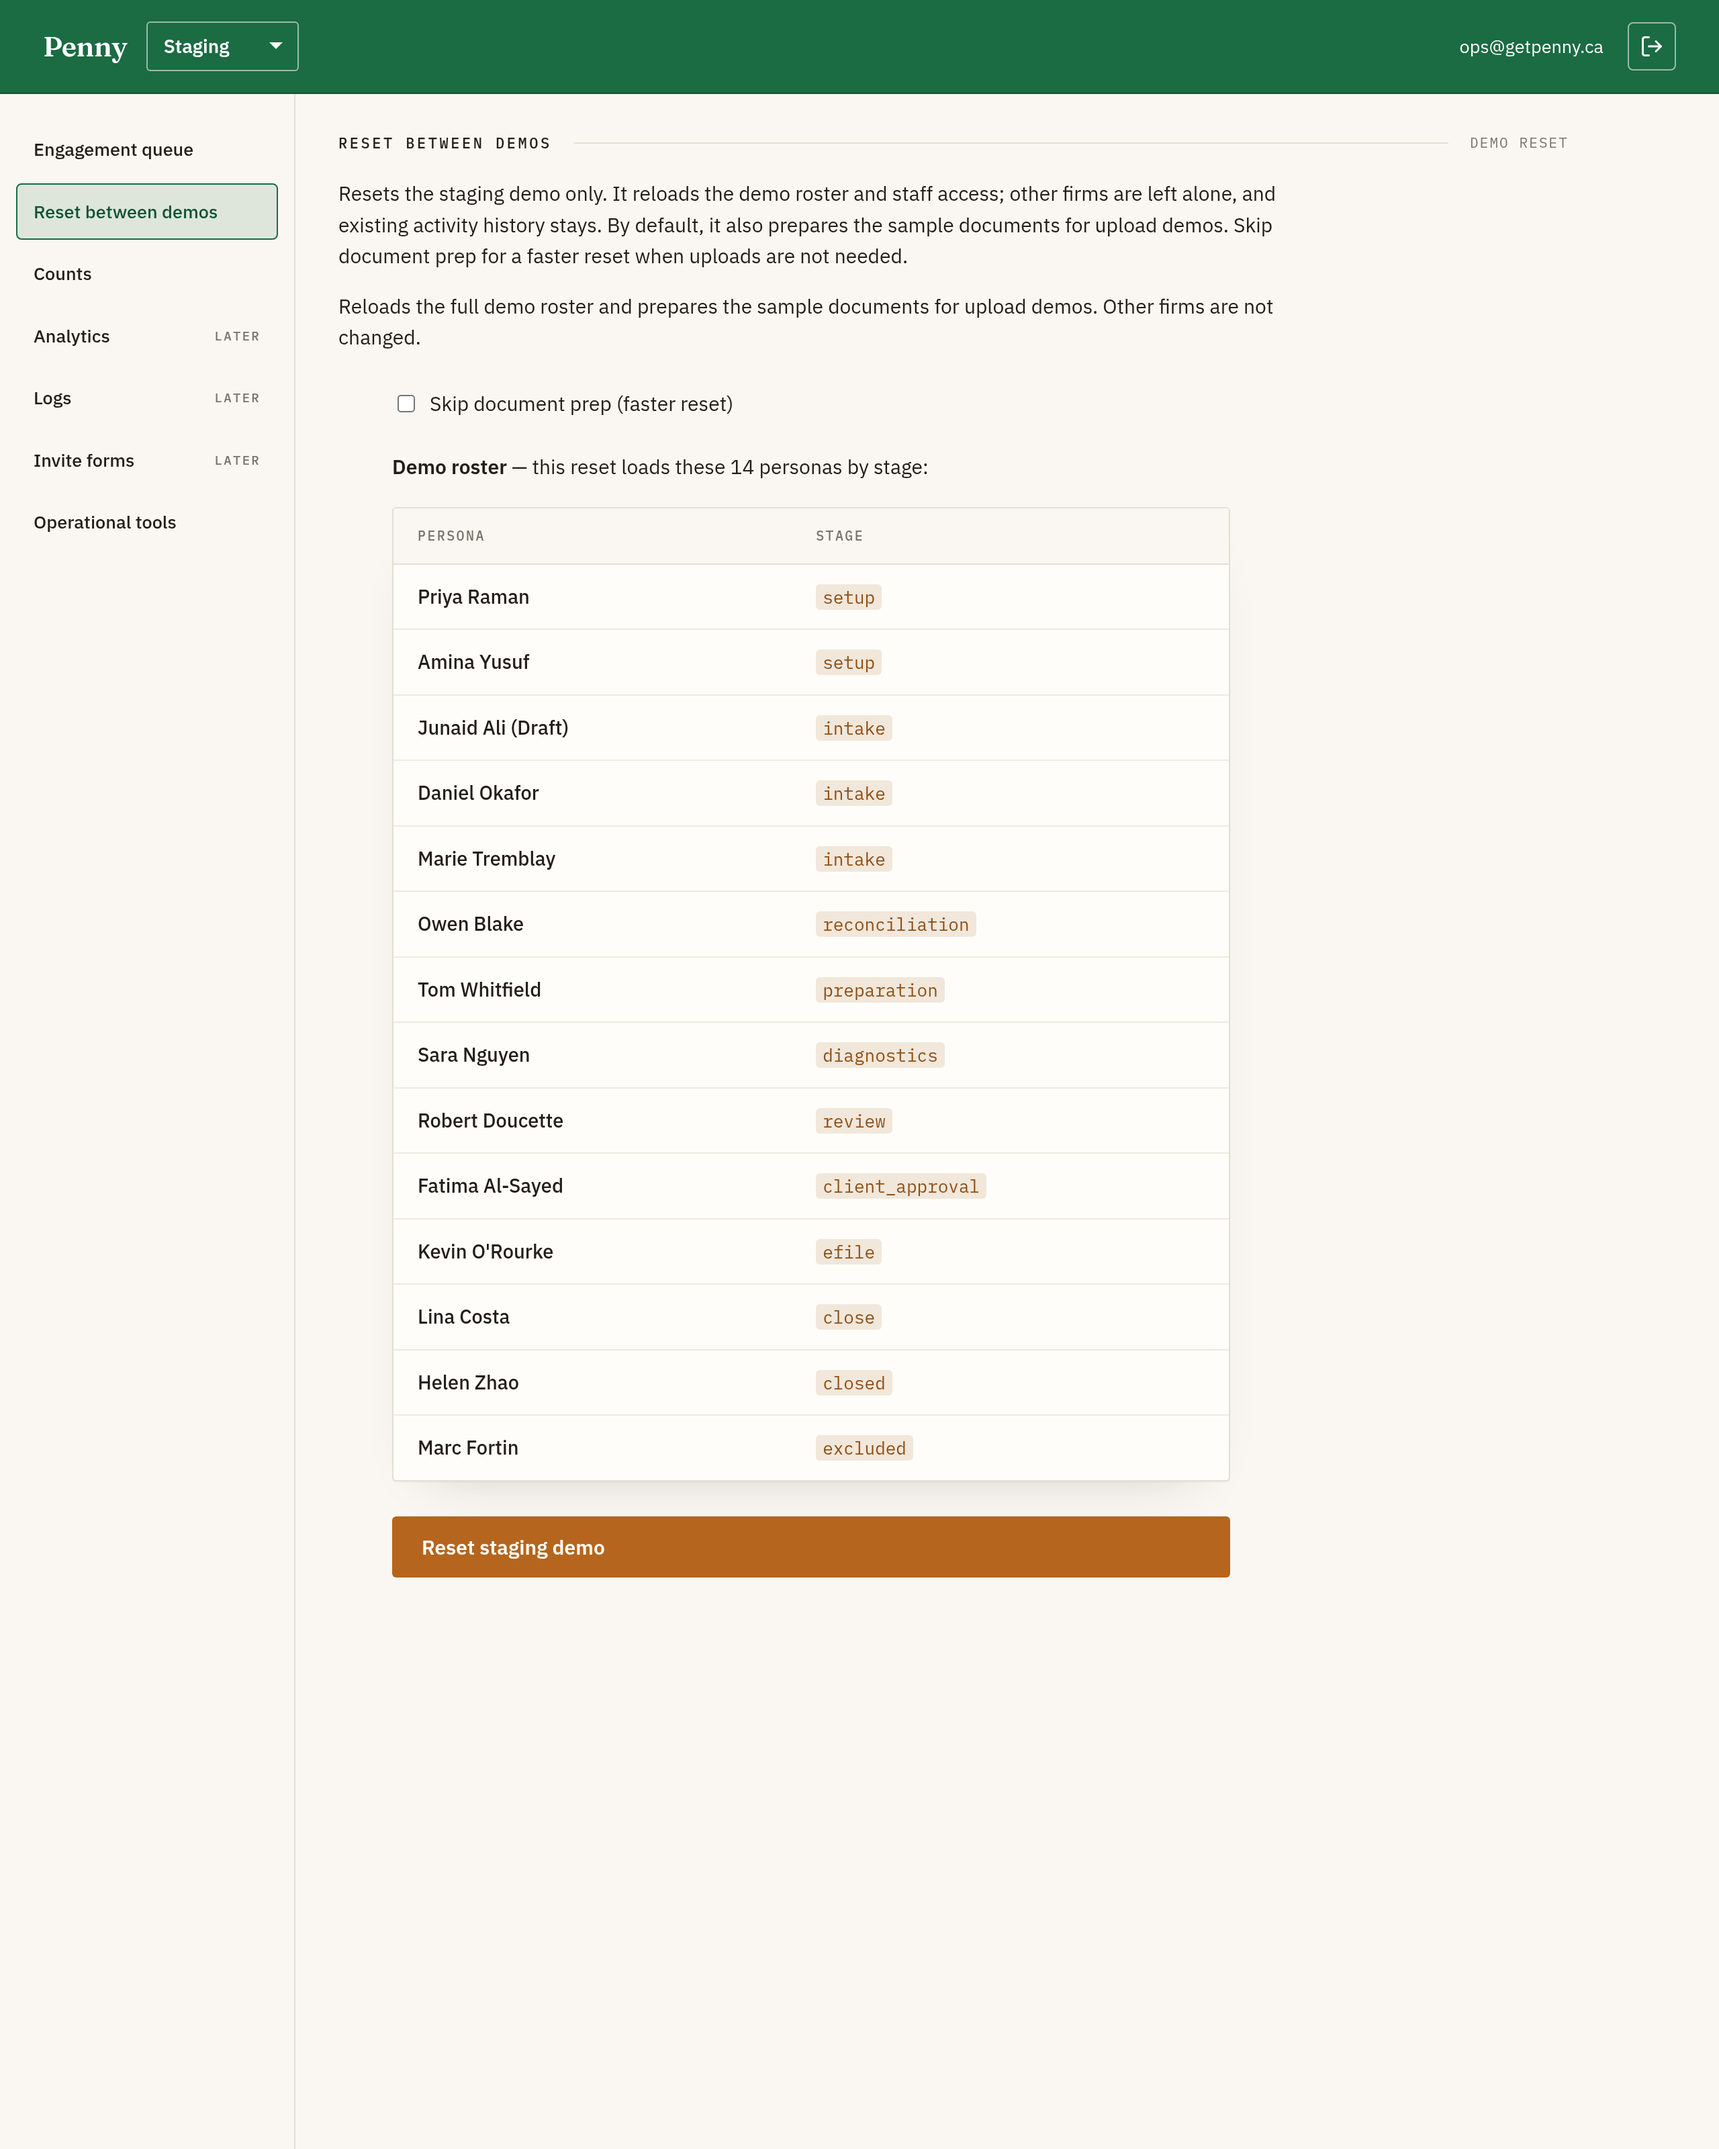
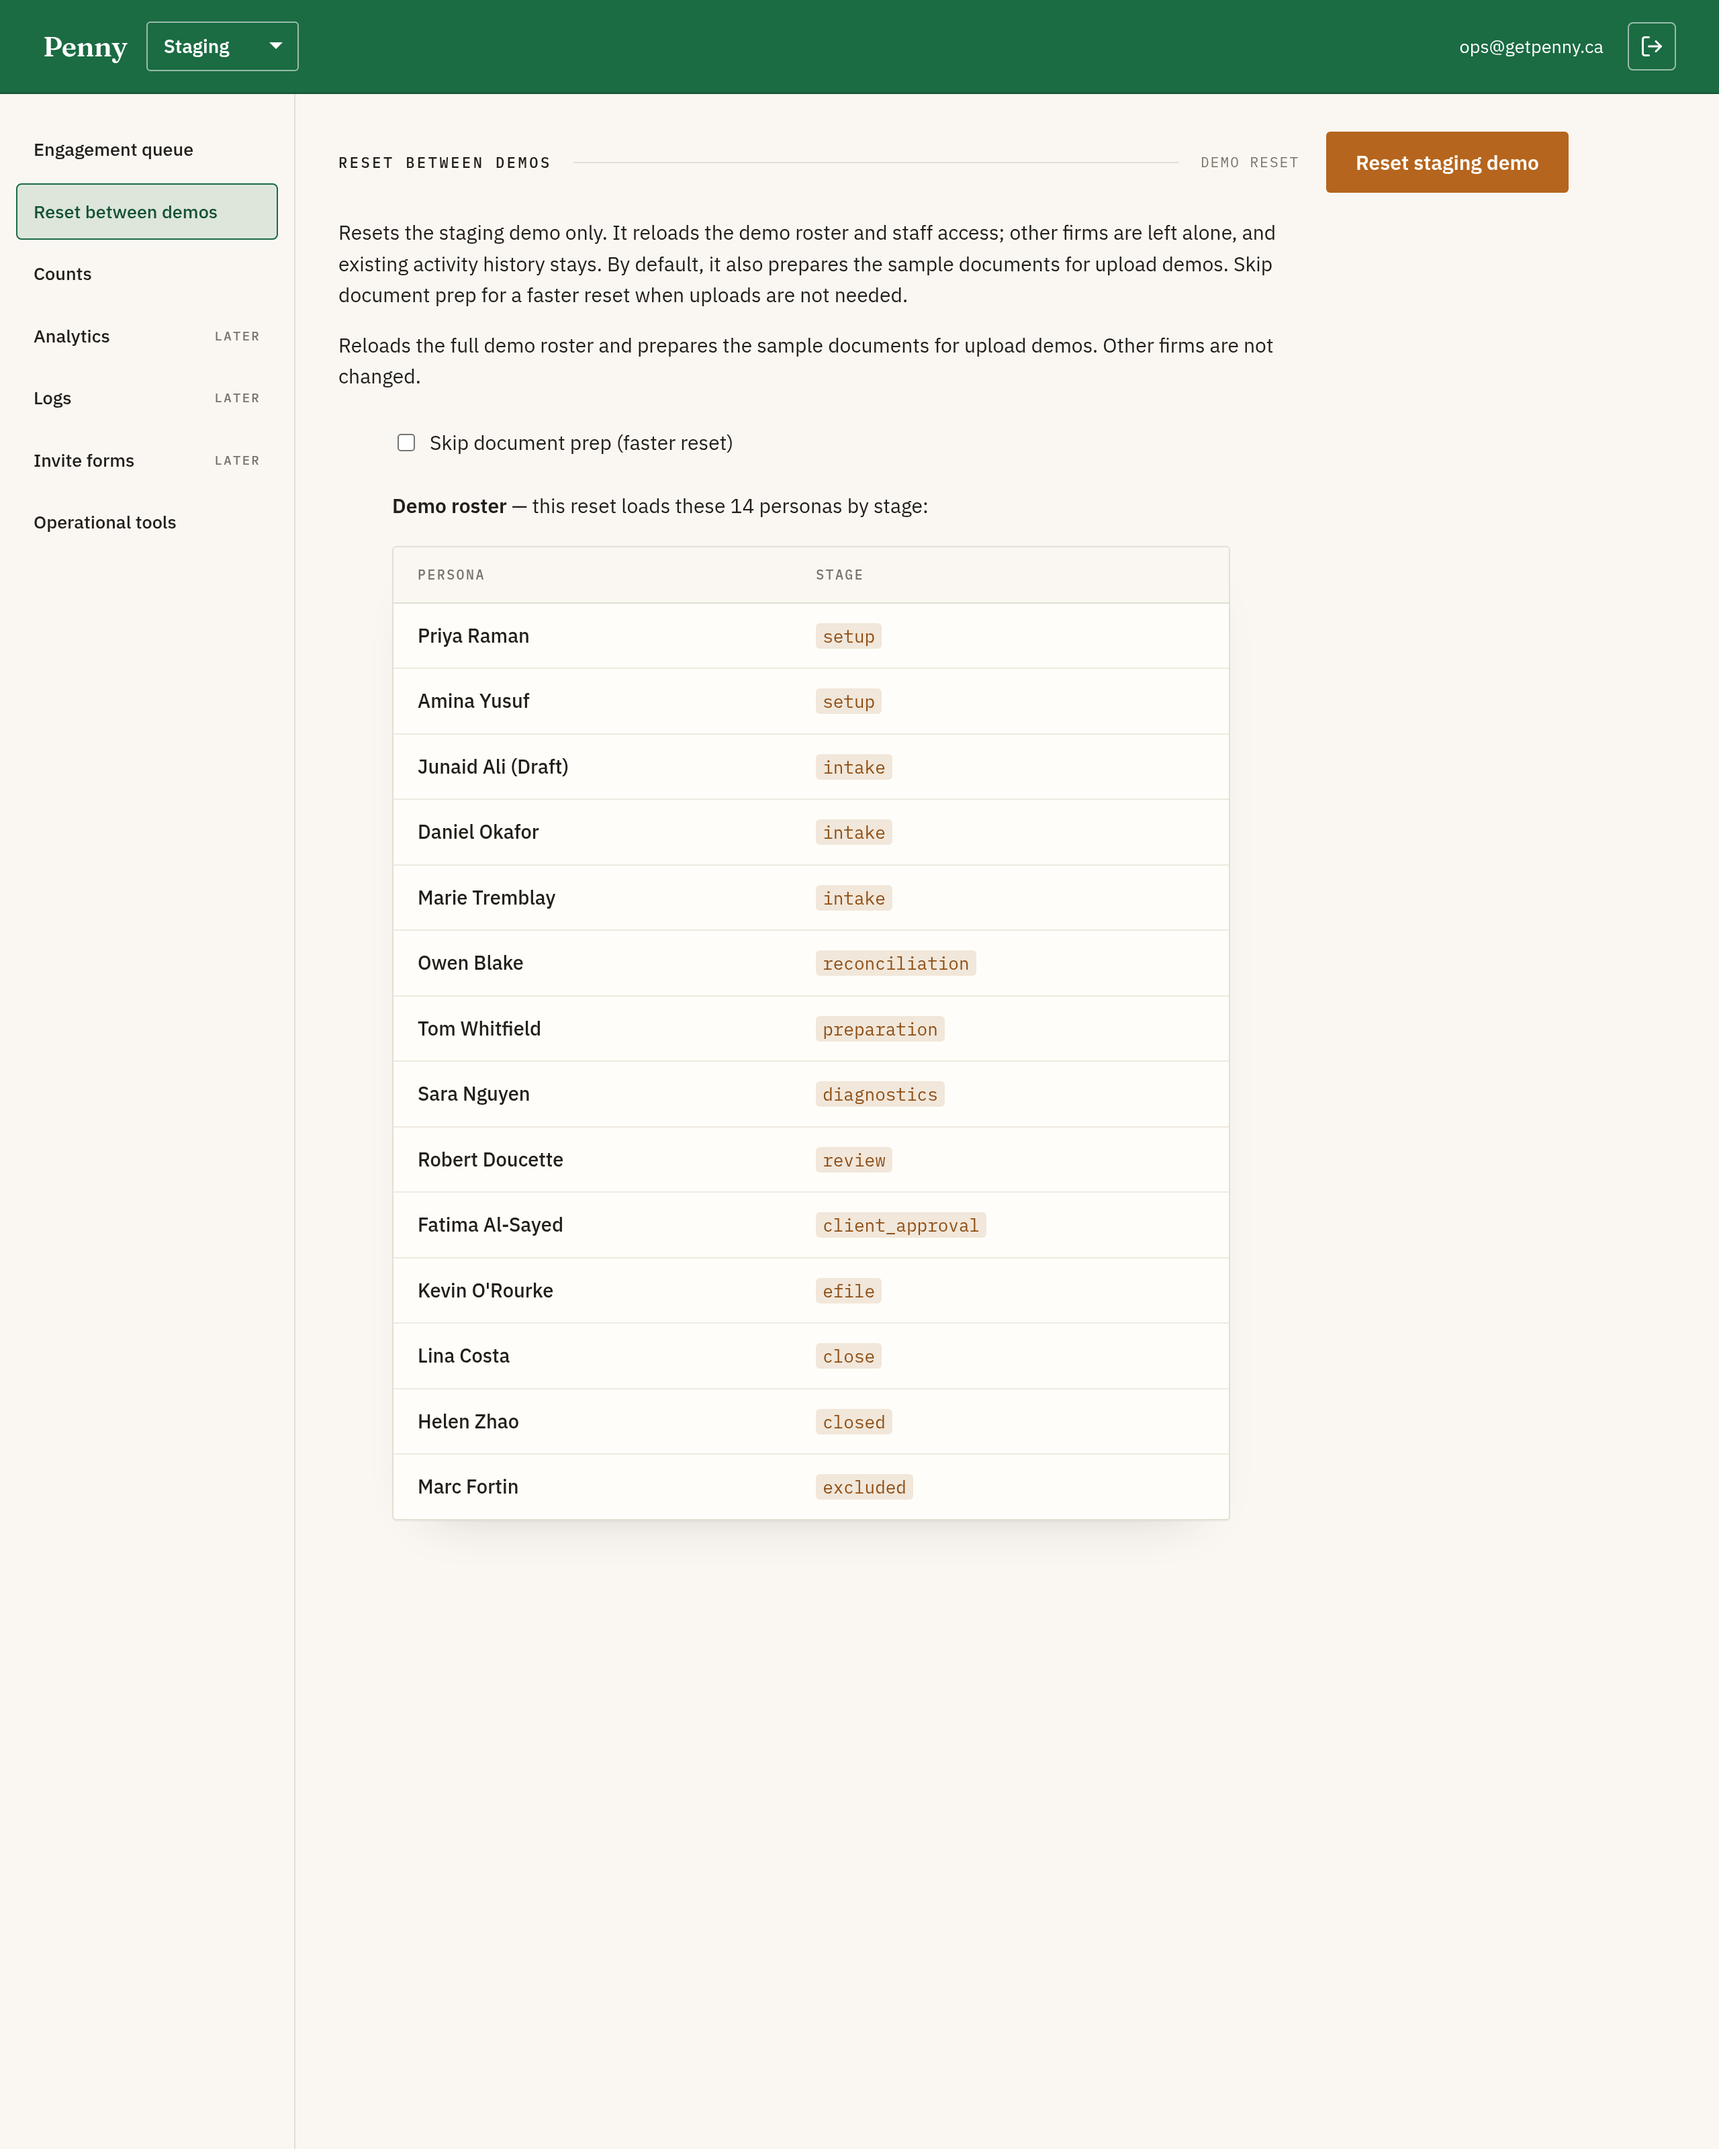
pr-366: refresh after shots (actions top-right)
Reset staging demo button sits in section-head top-right.

Changed region(s): [[0.1875, 0.0625, 0.9375, 0.75]]

diff --git a/pr-366/globals.css b/pr-366/globals.css
@@ -437,6 +437,27 @@ code.otp { font-size: 20px; letter-spacing: 3px; }
 .paper .section-head .aside { font-family: var(--mono); font-size: 10.5px; letter-spacing: .1em; text-transform: uppercase; color: var(--muted); }
 .paper .section-head a.aside { text-decoration: none; }
 .paper .section-head a.aside:hover { color: var(--ink); }
+.paper .ops-page-actions {
+  display: inline-flex;
+  align-items: center;
+  justify-content: flex-end;
+  gap: 10px;
+  flex: none;
+  margin-left: 4px;
+}
+.paper .ops-page-actions .create,
+.paper .ops-page-actions .btn-line {
+  margin: 0;
+  white-space: nowrap;
+}
+@media (max-width: 900px) {
+  .paper .section-head { flex-wrap: wrap; }
+  .paper .ops-page-actions {
+    width: 100%;
+    margin-left: 0;
+    justify-content: flex-start;
+  }
+}
 
 /* Ruled tally strip — the pipeline as a columnar ledger pad. */
 .paper .tally {
